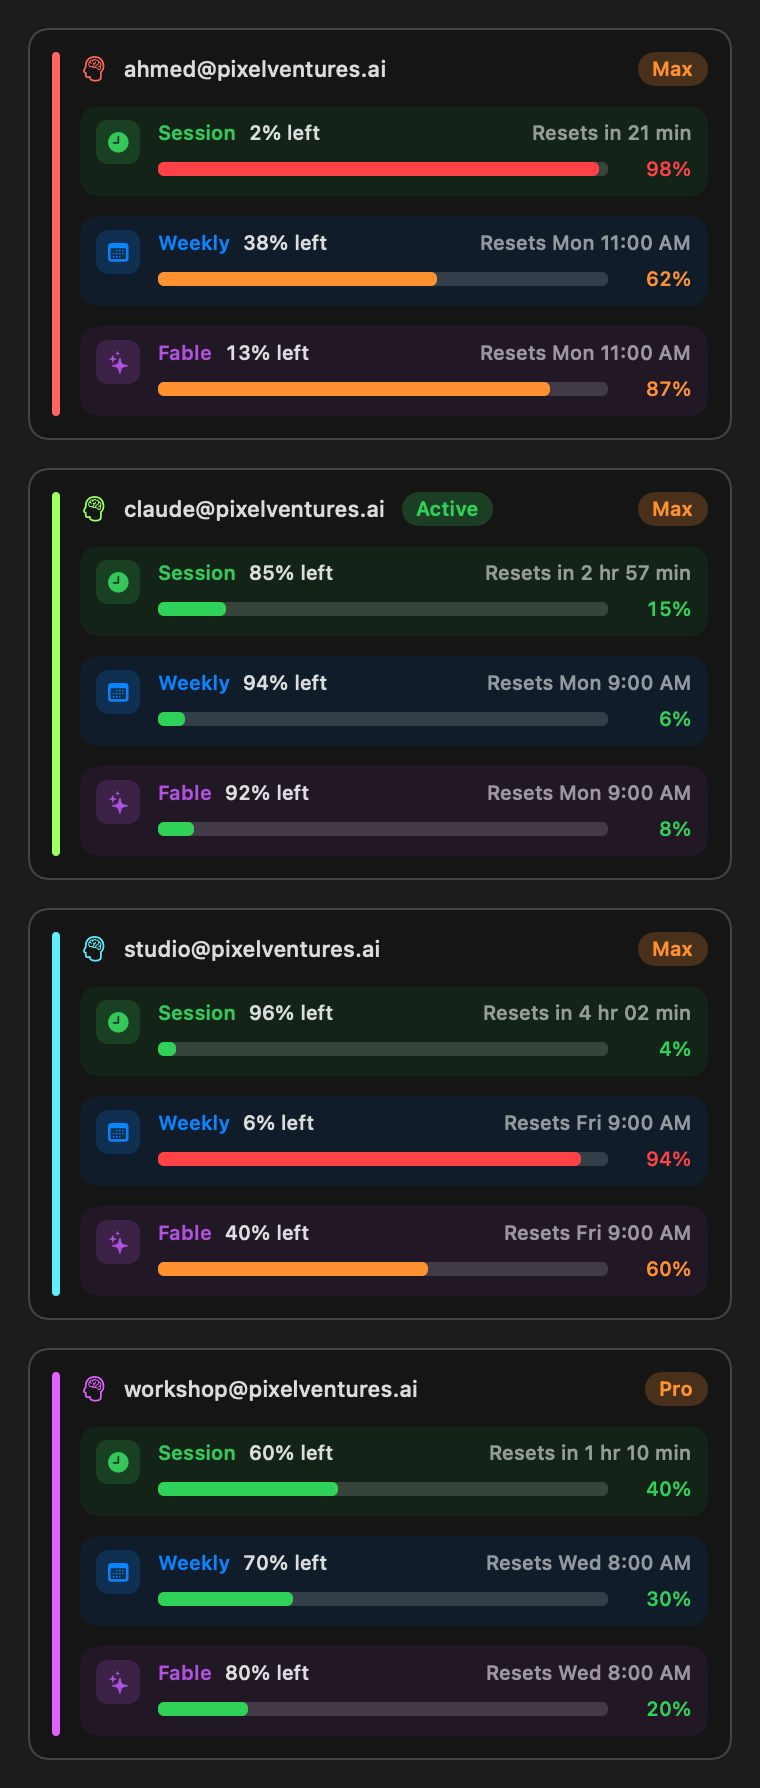
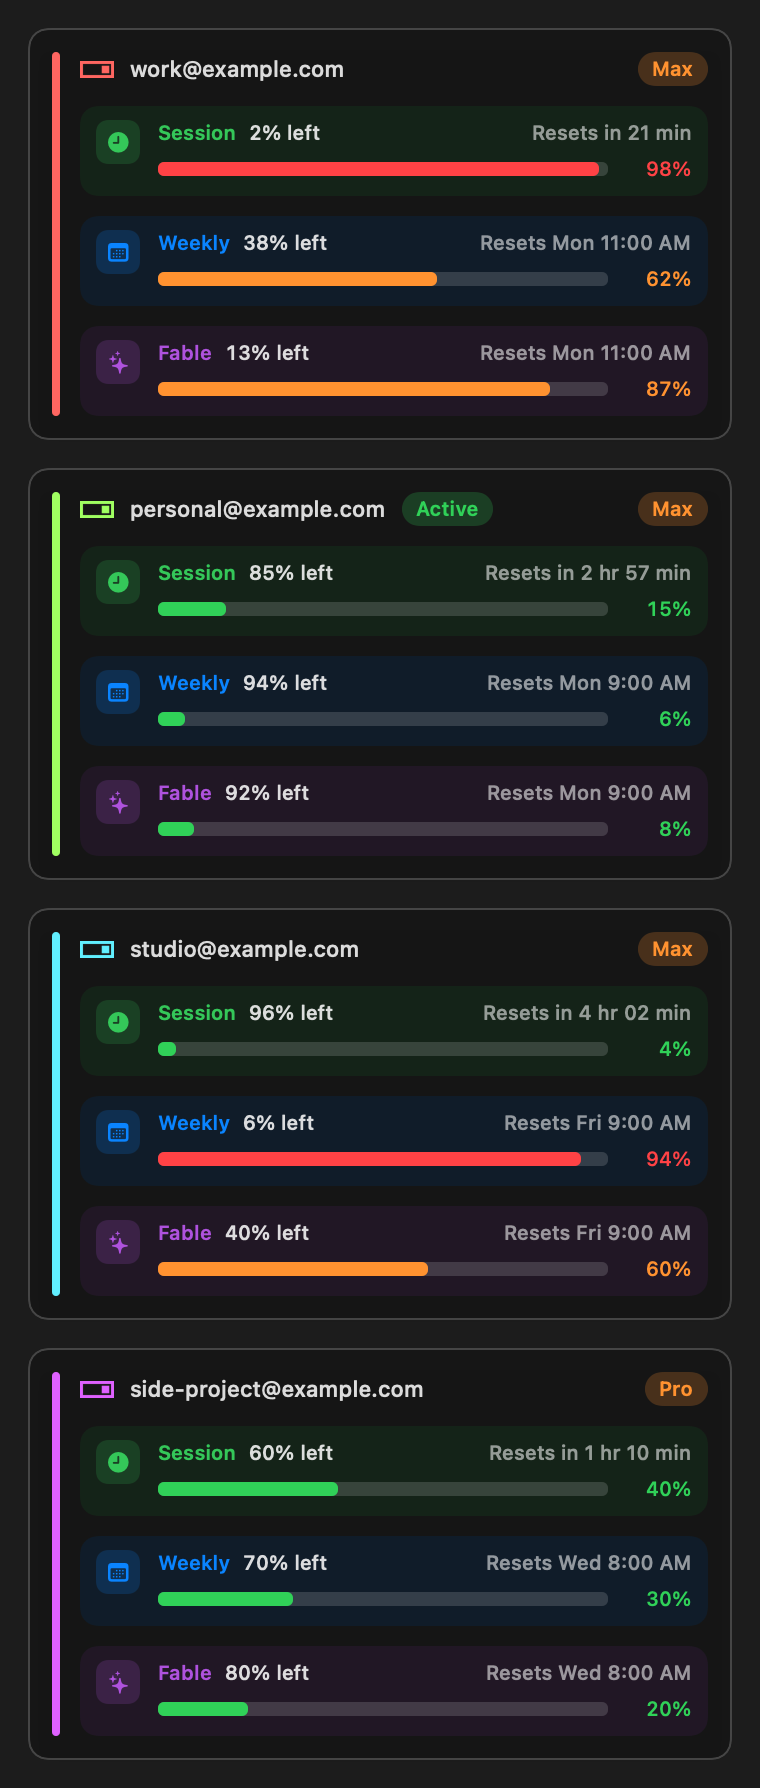
1.0.9: the PixelSwitch mark beside every account; no real addresses in the README pictures
The founder: "the screenshots you posted to GitHub have my actual email
addresses in them. You need to change that. Also... to the left of the email
address is the old original icon, and it should have the PixelSwitch icon",
plus "shouldn't you put on GitHub the screenshots showing the auto-switching
with the Fable limit".

- MY MISTAKE: the first screenshots used two of his real accounts
  (ahmed@ and claude@pixelventures.ai) in a public repository. The sample data
  is now invented accounts on example.com (RFC 2606), with a comment in the
  tool saying never to put a real address in a shipped picture. The old images
  remain in git history and in the v1.0.8 source archive; purging that is his
  call and is asked on a decisions page.
- AccountGlyph draws the PixelSwitch mark for a Claude Code account, in the
  account's colour, on the Usage card and the Accounts row; other providers
  keep their SF Symbol. It takes the artwork as a parameter so the screenshot
  tool, which runs outside the app bundle, can hand in the same PNG.
- New auto-switch figure in the README: the account that ran out of Fable and
  the one PixelSwitch moves to, drawn with the real cards.

diff --git a/Tools/screenshots/make_screenshots.swift b/Tools/screenshots/make_screenshots.swift
@@ -11,6 +11,8 @@
 //   swiftc -swift-version 6 -target arm64-apple-macos14.0 -parse-as-library \
 //     -o /tmp/pixelshots \
 //     PixelSwitch/Views/Components/UsageLimitRow.swift \
+//     PixelSwitch/Views/Components/AccountGlyph.swift \
+//     PixelSwitch/Models/Account.swift PixelSwitch/Models/String+Obfuscation.swift \
 //     PixelSwitch/Models/MenuBarConfig.swift PixelSwitch/Models/MenuBarModule.swift \
 //     PixelSwitch/Models/AppStyle.swift PixelSwitch/Models/BrandColor.swift \
 //     PixelSwitch/Models/AccountPalette.swift PixelSwitch/Services/L10n.swift \
@@ -18,7 +20,7 @@
 import SwiftUI
 import AppKit
 
-private struct Account {
+private struct SampleAccount {
     let email: String
     let swatch: Int
     let plan: String
@@ -30,20 +32,26 @@ private struct Account {
     let weekReset: String
 }
 
-private let sample: [Account] = [
-    .init(email: "ahmed@pixelventures.ai", swatch: 0, plan: "Max", active: false,
+// Invented accounts on example.com, the domain reserved for documentation
+// (RFC 2606). Never put a real address in a picture that ships to a public
+// repository: the first version of these screenshots did, and it had to be
+// replaced.
+private let sample: [SampleAccount] = [
+    .init(email: "work@example.com", swatch: 0, plan: "Max", active: false,
           session: 98, weekly: 62, fable: 87, sessionReset: "21 min", weekReset: "Mon 11:00 AM"),
-    .init(email: "claude@pixelventures.ai", swatch: 3, plan: "Max", active: true,
+    .init(email: "personal@example.com", swatch: 3, plan: "Max", active: true,
           session: 15, weekly: 6, fable: 8, sessionReset: "2 hr 57 min", weekReset: "Mon 9:00 AM"),
-    .init(email: "studio@pixelventures.ai", swatch: 5, plan: "Max", active: false,
+    .init(email: "studio@example.com", swatch: 5, plan: "Max", active: false,
           session: 4, weekly: 94, fable: 60, sessionReset: "4 hr 02 min", weekReset: "Fri 9:00 AM"),
-    .init(email: "workshop@pixelventures.ai", swatch: 8, plan: "Pro", active: false,
+    .init(email: "side-project@example.com", swatch: 8, plan: "Pro", active: false,
           session: 40, weekly: 30, fable: 20, sessionReset: "1 hr 10 min", weekReset: "Wed 8:00 AM"),
 ]
 
 private struct Card: View {
-    let account: Account
+    let account: SampleAccount
     let config: MenuBarConfig
+
+    let logo: Image
 
     private func row(_ kind: LimitBarKind, _ title: LocalizedStringKey, _ used: Double, _ reset: String) -> UsageLimitRow {
         UsageLimitRow(kind: kind, title: title, utilization: used, resetText: reset,
@@ -61,9 +69,10 @@ private struct Card: View {
 
             VStack(alignment: .leading, spacing: 10) {
                 HStack(spacing: 8) {
-                    Image(systemName: "brain.head.profile")
-                        .font(.subheadline)
-                        .foregroundStyle(AccountPalette.color(account.swatch))
+                    AccountGlyph(provider: .claudeCode,
+                                 tint: AccountPalette.color(account.swatch),
+                                 size: 17,
+                                 logo: logo)
                     Text(account.email)
                         .font(.subheadline.weight(.medium))
                         .lineLimit(1)
@@ -115,11 +124,51 @@ private func write<V: View>(_ view: V, width: CGFloat, scheme: ColorScheme, to p
     }
 }
 
+/// What auto-switch does, drawn with the same cards the app draws: the account
+/// that has run out of Fable, and the one PixelSwitch moves to.
+@MainActor
+private func autoSwitch(config: MenuBarConfig, logo: Image, scheme: ColorScheme) -> some View {
+    let exhausted = SampleAccount(email: "work@example.com", swatch: 0, plan: "Max", active: true,
+                            session: 12, weekly: 64, fable: 100,
+                            sessionReset: "3 hr 40 min", weekReset: "Mon 11:00 AM")
+    let chosen = SampleAccount(email: "studio@example.com", swatch: 5, plan: "Max", active: false,
+                         session: 8, weekly: 41, fable: 23,
+                         sessionReset: "4 hr 02 min", weekReset: "Fri 9:00 AM")
+
+    return VStack(alignment: .leading, spacing: 10) {
+        Text("Fable ran out on the account you were using")
+            .font(.caption.weight(.semibold))
+            .foregroundStyle(.secondary)
+        Card(account: exhausted, config: config, logo: logo)
+
+        HStack(spacing: 8) {
+            Image(systemName: "arrow.down")
+                .font(.caption.weight(.bold))
+            Text("PixelSwitch switches to the account with the most Fable left, and room on its other limits")
+                .font(.caption)
+                .fixedSize(horizontal: false, vertical: true)
+        }
+        .foregroundStyle(.secondary)
+        .padding(.vertical, 2)
+
+        Card(account: chosen, config: config, logo: logo)
+    }
+}
+
 @main
 enum Screenshots {
     static func main() {
         let out = CommandLine.arguments.count > 1 ? CommandLine.arguments[1] : "assets/screenshots"
         try? FileManager.default.createDirectory(atPath: out, withIntermediateDirectories: true)
+
+        // The mark, loaded from the asset catalog's file: this tool runs outside
+        // the app bundle, where Image("MenuBarLogo") would not resolve.
+        let logoPath = "PixelSwitch/Resources/Assets.xcassets/MenuBarLogo.imageset/menubar-logo@3x.png"
+        guard let logoImage = NSImage(contentsOfFile: logoPath) else {
+            print("could not load \(logoPath); run this from the repository root")
+            return
+        }
+        let logo = Image(nsImage: logoImage)
 
         MainActor.assumeIsolated {
             let config = MenuBarConfig.shared
@@ -129,11 +178,14 @@ enum Screenshots {
             for scheme in [ColorScheme.light, .dark] {
                 let name = scheme == .dark ? "dark" : "light"
 
-                write(VStack(spacing: 14) { ForEach(0..<sample.count, id: \.self) { Card(account: sample[$0], config: config) } },
+                write(VStack(spacing: 14) { ForEach(0..<sample.count, id: \.self) { Card(account: sample[$0], config: config, logo: logo) } },
                       width: 380, scheme: scheme, to: "\(out)/accounts-\(name).png")
 
-                write(Card(account: sample[0], config: config),
+                write(Card(account: sample[0], config: config, logo: logo),
                       width: 380, scheme: scheme, to: "\(out)/limits-\(name).png")
+
+                write(autoSwitch(config: config, logo: logo, scheme: scheme),
+                      width: 420, scheme: scheme, to: "\(out)/auto-switch-\(name).png")
             }
         }
     }

diff --git a/PixelSwitch/Views/Components/AccountGlyph.swift b/PixelSwitch/Views/Components/AccountGlyph.swift
@@ -1,0 +1,34 @@
+import SwiftUI
+
+/// The mark shown beside an account.
+///
+/// A Claude Code account gets the PixelSwitch mark, in the account's colour;
+/// the inherited head glyph was CCSwitcher's. Other providers keep their own
+/// symbol until they have a mark of their own.
+///
+/// `logo` exists so `Tools/screenshots/make_screenshots.swift` can hand in the
+/// same artwork loaded from disk: it renders these views outside the app
+/// bundle, where an asset-catalog name does not resolve.
+struct AccountGlyph: View {
+    let provider: AIProviderType
+    let tint: Color
+    var size: CGFloat = 16
+    var logo: Image = Image("MenuBarLogo")
+
+    var body: some View {
+        Group {
+            if provider == .claudeCode {
+                logo
+                    .renderingMode(.template)
+                    .resizable()
+                    .aspectRatio(2, contentMode: .fit)
+                    .frame(width: size, height: size / 2)
+            } else {
+                Image(systemName: provider.iconName)
+                    .font(.system(size: size * 0.8))
+            }
+        }
+        .foregroundStyle(tint)
+        .accessibilityHidden(true)
+    }
+}

diff --git a/PixelSwitch/Views/AccountSwitcherView.swift b/PixelSwitch/Views/AccountSwitcherView.swift
@@ -72,11 +72,13 @@ struct AccountSwitcherView: View {
                     .accessibilityHidden(true)
             }
 
-            // Provider icon, in the account's colour
-            Image(systemName: account.provider.iconName)
-                .font(.title2)
-                .foregroundStyle(colorCodeAccounts ? AccountPalette.color(swatch) : (account.isActive ? Color.brand : Color.secondary))
-                .frame(width: 32, height: 32)
+            // The PixelSwitch mark, in the account's colour
+            AccountGlyph(
+                provider: account.provider,
+                tint: colorCodeAccounts ? AccountPalette.color(swatch) : (account.isActive ? Color.brand : Color.secondary),
+                size: 26
+            )
+            .frame(width: 32, height: 32)
 
             // Account info
             VStack(alignment: .leading, spacing: 2) {

diff --git a/PixelSwitch/Views/UsageDashboardView.swift b/PixelSwitch/Views/UsageDashboardView.swift
@@ -281,9 +281,11 @@ struct UsageDashboardView: View {
     @ViewBuilder
     private func accountHeader(_ account: Account, swatch: Int?) -> some View {
         HStack(spacing: 8) {
-            Image(systemName: account.provider.iconName)
-                .font(.subheadline)
-                .foregroundStyle(colorCodeAccounts ? AccountPalette.color(swatch) : (account.isActive ? Color.brand : Color.secondary))
+            AccountGlyph(
+                provider: account.provider,
+                tint: colorCodeAccounts ? AccountPalette.color(swatch) : (account.isActive ? Color.brand : Color.secondary),
+                size: 17
+            )
 
             Text(account.displayEmail(obfuscated: !showFullEmail))
                 .font(.subheadline.weight(.medium))

diff --git a/README.md b/README.md
@@ -71,7 +71,7 @@ PixelSwitch is built on [CCSwitcher](https://github.com/XueshiQiao/CCSwitcher) b
   </picture>
 </p>
 
-One card per account. The colour down the left edge is the account's own, so you know whose numbers these are before you read the address. Inside, each limit keeps an identity that never changes: a **green clock** for the 5-hour session, a **blue calendar** for the weekly limit, a **purple sparkle** for the weekly Fable allowance. The bar is the other half of the story: it fills and turns red as that limit runs out, which is why two limits that are both nearly gone still read apart at a glance.
+One card per account, each with the PixelSwitch mark and a colour of its own down the left edge, so you know whose numbers these are before you read the address. Inside, each limit keeps an identity that never changes: a **green clock** for the 5-hour session, a **blue calendar** for the weekly limit, a **purple sparkle** for the weekly Fable allowance. The bar is the other half of the story: it fills and turns red as that limit runs out, which is why two limits that are both nearly gone still read apart at a glance.
 
 This account is nearly out of its session and has 13% of its Fable left. With auto-switch on, PixelSwitch would move to an account that still has room before that stopped anyone.
 
@@ -114,6 +114,13 @@ The native CLI has no clean "switch account" command — `claude auth logout && 
 **Whose login is this?** `~/.claude.json` names an account, but a running Claude Code session rewrites that file from memory, so it can name one account while the keychain holds another's login. PixelSwitch therefore proves ownership from the login itself: it asks Anthropic's `/api/oauth/profile` who the token belongs to and matches the answer against each stored account. It backs up a login only under the account that owns it, refuses a switch whose stored login belongs to someone else, removes a login saved under the wrong account, and never renews one that is live or stored elsewhere. If `claude auth status` stops answering, it gives up after 30 seconds and checks the store directly rather than leaving a switch half done.
 
 ### 2. Auto-Switch, Including the Fable Allowance
+
+<p align="center">
+  <picture>
+    <source media="(prefers-color-scheme: dark)" srcset="assets/screenshots/auto-switch-dark.png">
+    <img src="assets/screenshots/auto-switch-light.png" alt="The active account has used all of its Fable allowance; PixelSwitch switches to another account that still has 77% of its Fable left and room on its other limits" width="480">
+  </picture>
+</p>
 
 Claude accounts have three limits worth watching: the 5-hour session window, the 7-day weekly window, and a weekly per-model allowance for Fable that the usage API reports separately. Fable usually runs out first, and when it does, the account is still perfectly usable for everything else — which is exactly why a switcher has to treat it as its own limit rather than folding it into the weekly figure.
 

diff --git a/RELEASE_NOTES.md b/RELEASE_NOTES.md
@@ -1,20 +1,24 @@
-## PixelSwitch 1.0.8
+## PixelSwitch 1.0.9
+
+### Fixed
+
+- **The PixelSwitch mark beside every account.** Each account still showed the head glyph inherited from CCSwitcher, on its card and in the Accounts list. Both now show the PixelSwitch mark, in that account's colour.
+- **The pictures in the README no longer use real email addresses.** They were rendered with the author's own accounts; they now use invented ones on `example.com`, the domain reserved for documentation.
 
 ### New
 
-- **Fable auto-switching has its own switch.** Settings → Auto-switch → **"Also switch when Fable runs out"**, on by default. Turn it off and Fable stays a reading you can see, while the 5-hour and weekly limits keep moving you to an account with room, exactly as before. Nothing else about auto-switch changes.
-- **A proper README**, with pictures of the app and an explanation of what every colour and bar means.
+- **The README shows what auto-switch does**: the account that has run out of Fable, and the account PixelSwitch moves to, drawn with the same cards the app draws.
 
-#### Included from 1.0.7 and 1.0.6
+#### Included from 1.0.8
 
-- Each account has its own colour, shown as the bar down the edge of its card and on its icon. Ten colours, repeating only past ten accounts, and each account keeps its colour between launches. Turn it off in Settings → Account display.
+- **Fable auto-switching has its own switch**: Settings → Auto-switch → "Also switch when Fable runs out", on by default. Off leaves Fable as a reading while the 5-hour and weekly limits keep switching.
 
-#### Included from 1.0.5 to 1.0.2
+#### Included from 1.0.7 to 1.0.2
 
-- The app's own mark in the panel header and menu bar; cost totals that only claim the history actually kept; Session, Weekly and Fable each with their own colour and symbol; auto-switch covering Fable; MCP logins that survive a switch; a switch that cannot mix up two accounts.
+- A colour per account, shown as the bar down the edge of its card; the app's own mark in the panel header and menu bar; cost totals that only claim the history actually kept; Session, Weekly and Fable each with their own colour and symbol; auto-switch covering Fable; MCP logins that survive a switch; a switch that cannot mix up two accounts.
 
 ### Good to know
 
 - This build is not signed with an Apple Developer ID yet. The first time you open it, clear the download flag with `xattr -dr com.apple.quarantine /Applications/PixelSwitch.app`, or use System Settings → Privacy & Security → Open Anyway.
 
-**Full Changelog**: https://github.com/BespokeWoodcraftStudio/PixelSwitch/compare/v1.0.7...v1.0.8
+**Full Changelog**: https://github.com/BespokeWoodcraftStudio/PixelSwitch/compare/v1.0.8...v1.0.9
